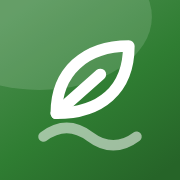
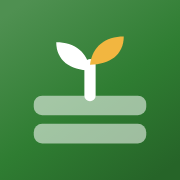
Add files via upload

diff --git a/index.html b/index.html
@@ -1446,7 +1446,7 @@ dialog.mb-share::backdrop{background:var(--scrim)}
 <meta name="twitter:card" content="summary_large_image">
 </head><body><a class="skip" href="#main">Skip to main content</a>
 <aside class="mb-side" aria-label="App">
-  <a class="brand" href="./" data-home aria-label="mbgarden.online: go to Beds"><span class="logo"><svg aria-hidden="true" focusable="false" xmlns="http://www.w3.org/2000/svg" viewBox="0 0 64 64"><defs><linearGradient id="gb1" gradientUnits="userSpaceOnUse" x1="10" y1="0" x2="54" y2="64"><stop offset="0" stop-color="#4c8f4f"/><stop offset=".55" stop-color="#2F7D32"/><stop offset="1" stop-color="#266428"/></linearGradient><clipPath id="cb1"><rect width="64" height="64" rx="18"/></clipPath></defs><g clip-path="url(#cb1)"><rect width="64" height="64" fill="url(#gb1)"/><path d="M14 50c6-4.5 12-4.5 18 0s12 4.5 18 0" stroke="#fff" stroke-opacity=".55" stroke-width="4" stroke-linecap="round" fill="none"/><path d="M19 41C19 25 30 15 47 15C47 32 36 41 19 41Z" stroke="#fff" stroke-width="4.5" stroke-linecap="round" stroke-linejoin="round" fill="none"/><path d="M19 41L36 26" stroke="#fff" stroke-width="4.5" stroke-linecap="round" stroke-linejoin="round" fill="none"/></g></svg></span><span class="bt"><b>mbgarden<i class="tld">.online</i></b><span>Official Web App · v1.1</span></span></a>
+  <a class="brand" href="./" data-home aria-label="mbgarden.online: go to Beds"><span class="logo"><svg aria-hidden="true" focusable="false" xmlns="http://www.w3.org/2000/svg" viewBox="0 0 64 64"><defs><linearGradient id="mbga-g1-1" gradientUnits="userSpaceOnUse" x1="10" y1="0" x2="54" y2="64"><stop offset="0" stop-color="#4f9051"/><stop offset=".55" stop-color="#2F7D32"/><stop offset="1" stop-color="#266428"/></linearGradient><clipPath id="mbga-c1-1"><rect width="64" height="64" rx="18"/></clipPath></defs><g clip-path="url(#mbga-c1-1)"><rect width="64" height="64" fill="url(#mbga-g1-1)"/><rect x="12" y="34" width="40" height="7" rx="3" fill="#fff" fill-opacity=".55"/><rect x="12" y="44" width="40" height="7" rx="3" fill="#fff" fill-opacity=".55"/><path d="M32 34V23" stroke="#fff" stroke-width="4" stroke-linecap="round"/><path d="M32 25c-.8-6.5-5.5-10-12-10 0 6.5 5 10 12 10z" fill="#fff"/><path d="M32 23c.8-6.5 5.5-10 12-10 0 6.5-5 10-12 10z" fill="#F2B640"/></g></svg></span><span class="bt"><b>mbgarden<i class="tld">.online</i></b><span>Official Web App · v1.1</span></span></a>
   <nav class="side-nav mb-nav" aria-label="Sections">
     <button type="button" data-view="today" id="tab-today"><svg viewBox="0 0 24 24" width="16" height="16" aria-hidden="true" fill="none" stroke="currentColor" stroke-width="1.8" stroke-linecap="round" stroke-linejoin="round"><circle cx="12" cy="12" r="4"/><path d="M12 2.5v2.2M12 19.3v2.2M2.5 12h2.2M19.3 12h2.2M5.3 5.3l1.6 1.6M17.1 17.1l1.6 1.6M5.3 18.7l1.6-1.6M17.1 6.9l1.6-1.6"/></svg><span>Today</span></button>
     <button type="button" data-view="plan" id="tab-plan"><svg viewBox="0 0 24 24" width="16" height="16" aria-hidden="true" fill="none" stroke="currentColor" stroke-width="1.8" stroke-linecap="round" stroke-linejoin="round"><rect x="3.5" y="3.5" width="17" height="17" rx="1.5"/><path d="M3.5 12h17M12 3.5v17"/></svg><span>Beds</span></button>
@@ -1461,7 +1461,7 @@ dialog.mb-share::backdrop{background:var(--scrim)}
 </aside>
 <div class="app mb-main">
   <header class="page-bar" id="top">
-    <a class="brand phone-brand" href="./" data-home aria-label="mbgarden.online: go to Beds"><span class="logo"><svg aria-hidden="true" focusable="false" xmlns="http://www.w3.org/2000/svg" viewBox="0 0 64 64"><defs><linearGradient id="gb2" gradientUnits="userSpaceOnUse" x1="10" y1="0" x2="54" y2="64"><stop offset="0" stop-color="#4c8f4f"/><stop offset=".55" stop-color="#2F7D32"/><stop offset="1" stop-color="#266428"/></linearGradient><clipPath id="cb2"><rect width="64" height="64" rx="18"/></clipPath></defs><g clip-path="url(#cb2)"><rect width="64" height="64" fill="url(#gb2)"/><path d="M14 50c6-4.5 12-4.5 18 0s12 4.5 18 0" stroke="#fff" stroke-opacity=".55" stroke-width="4" stroke-linecap="round" fill="none"/><path d="M19 41C19 25 30 15 47 15C47 32 36 41 19 41Z" stroke="#fff" stroke-width="4.5" stroke-linecap="round" stroke-linejoin="round" fill="none"/><path d="M19 41L36 26" stroke="#fff" stroke-width="4.5" stroke-linecap="round" stroke-linejoin="round" fill="none"/></g></svg></span><span class="bt"><b>mbgarden<i class="tld">.online</i></b><span>Official Web App · v1.1</span></span></a>
+    <a class="brand phone-brand" href="./" data-home aria-label="mbgarden.online: go to Beds"><span class="logo"><svg aria-hidden="true" focusable="false" xmlns="http://www.w3.org/2000/svg" viewBox="0 0 64 64"><defs><linearGradient id="mbga-g1-2" gradientUnits="userSpaceOnUse" x1="10" y1="0" x2="54" y2="64"><stop offset="0" stop-color="#4f9051"/><stop offset=".55" stop-color="#2F7D32"/><stop offset="1" stop-color="#266428"/></linearGradient><clipPath id="mbga-c1-2"><rect width="64" height="64" rx="18"/></clipPath></defs><g clip-path="url(#mbga-c1-2)"><rect width="64" height="64" fill="url(#mbga-g1-2)"/><rect x="12" y="34" width="40" height="7" rx="3" fill="#fff" fill-opacity=".55"/><rect x="12" y="44" width="40" height="7" rx="3" fill="#fff" fill-opacity=".55"/><path d="M32 34V23" stroke="#fff" stroke-width="4" stroke-linecap="round"/><path d="M32 25c-.8-6.5-5.5-10-12-10 0 6.5 5 10 12 10z" fill="#fff"/><path d="M32 23c.8-6.5 5.5-10 12-10 0 6.5-5 10-12 10z" fill="#F2B640"/></g></svg></span><span class="bt"><b>mbgarden<i class="tld">.online</i></b><span>Official Web App · v1.1</span></span></a>
     <div class="page-title" id="page-title">Beds</div>
     <button class="icon-btn menu-btn" id="menu-btn" aria-expanded="false" aria-controls="top-actions" aria-label="Open menu"><span aria-hidden="true">☰</span><i class="bk-badge" hidden></i></button>
     <div class="actions top-actions" id="top-actions">

diff --git a/404.html b/404.html
@@ -53,7 +53,7 @@ footer a{color:var(--muted);text-decoration:none}footer a:hover{color:var(--acce
 </head>
 <body>
 <div class="bar"></div>
-<header><a class="brand" href="/"><svg aria-hidden="true" focusable="false" xmlns="http://www.w3.org/2000/svg" viewBox="0 0 64 64"><defs><linearGradient id="g1" gradientUnits="userSpaceOnUse" x1="10" y1="0" x2="54" y2="64"><stop offset="0" stop-color="#4c8f4f"/><stop offset=".55" stop-color="#2F7D32"/><stop offset="1" stop-color="#266428"/></linearGradient><clipPath id="c1"><rect width="64" height="64" rx="18"/></clipPath></defs><g clip-path="url(#c1)"><rect width="64" height="64" fill="url(#g1)"/><path d="M14 50c6-4.5 12-4.5 18 0s12 4.5 18 0" stroke="#fff" stroke-opacity=".55" stroke-width="4" stroke-linecap="round" fill="none"/><path d="M19 41C19 25 30 15 47 15C47 32 36 41 19 41Z" stroke="#fff" stroke-width="4.5" stroke-linecap="round" stroke-linejoin="round" fill="none"/><path d="M19 41L36 26" stroke="#fff" stroke-width="4.5" stroke-linecap="round" stroke-linejoin="round" fill="none"/></g></svg><span>mbgarden<i>.online</i></span></a></header>
+<header><a class="brand" href="/"><svg aria-hidden="true" focusable="false" xmlns="http://www.w3.org/2000/svg" viewBox="0 0 64 64"><defs><linearGradient id="mbga-g1" gradientUnits="userSpaceOnUse" x1="10" y1="0" x2="54" y2="64"><stop offset="0" stop-color="#4f9051"/><stop offset=".55" stop-color="#2F7D32"/><stop offset="1" stop-color="#266428"/></linearGradient><clipPath id="mbga-c1"><rect width="64" height="64" rx="18"/></clipPath></defs><g clip-path="url(#mbga-c1)"><rect width="64" height="64" fill="url(#mbga-g1)"/><rect x="12" y="34" width="40" height="7" rx="3" fill="#fff" fill-opacity=".55"/><rect x="12" y="44" width="40" height="7" rx="3" fill="#fff" fill-opacity=".55"/><path d="M32 34V23" stroke="#fff" stroke-width="4" stroke-linecap="round"/><path d="M32 25c-.8-6.5-5.5-10-12-10 0 6.5 5 10 12 10z" fill="#fff"/><path d="M32 23c.8-6.5 5.5-10 12-10 0 6.5-5 10-12 10z" fill="#F2B640"/></g></svg><span>mbgarden<i>.online</i></span></a></header>
 <main>
 <div class="card">
 <span class="code"><b>404</b><i aria-hidden="true">·</i>Page not found</span>

diff --git a/sw.js b/sw.js
@@ -2,7 +2,7 @@
    It never stores garden data (that lives in your browser storage) and never touches
    other sites' requests, such as the optional weather forecast.
    Change VERSION whenever a file in SHELL changes. */
-const VERSION = 'mbgarden-20261014-25c51f31';
+const VERSION = 'mbgarden-20261014-47e59b87';
 const SHELL = ['./', 'index.html', 'manifest.json', 'apple-touch-icon.png', 'favicon.ico', 'favicon.svg', 'icon-192.png', 'icon-512.png', 'icon-maskable-512.png'];
 
 self.addEventListener('install', e => {

diff --git a/RELEASE_NOTES.md b/RELEASE_NOTES.md
@@ -3,6 +3,7 @@
 Newest first. One entry per release, in plain words a user would understand.
 
 ## 1.1 · 2026-10-14
+- New logo (a seedling over raised beds), redrawn in the same style as the other mb apps; app icon, tab icon, share image and pages all updated.
 - About card at the bottom of Settings: version, release date, links and copyright in one place.
 - Installing from matthewbroyer.com: the hub's Install button opens the app with a short install prompt.
 - New "page not found" page that matches the app and links back to it.
